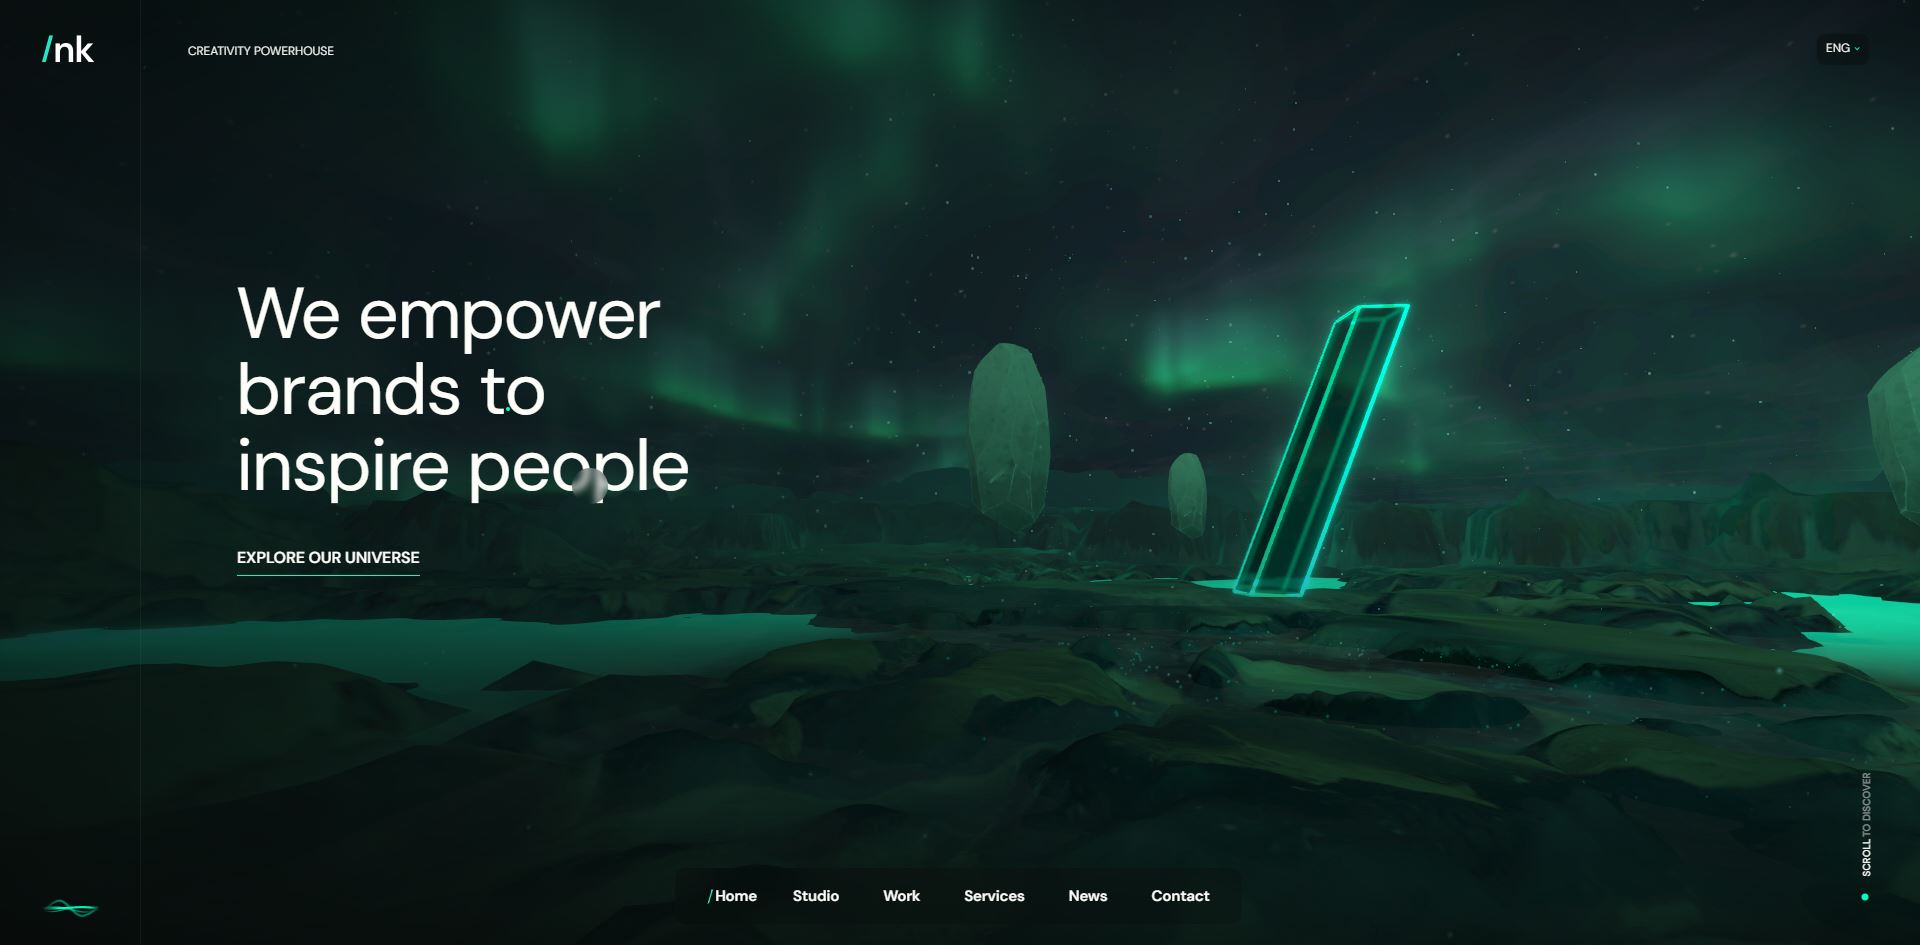
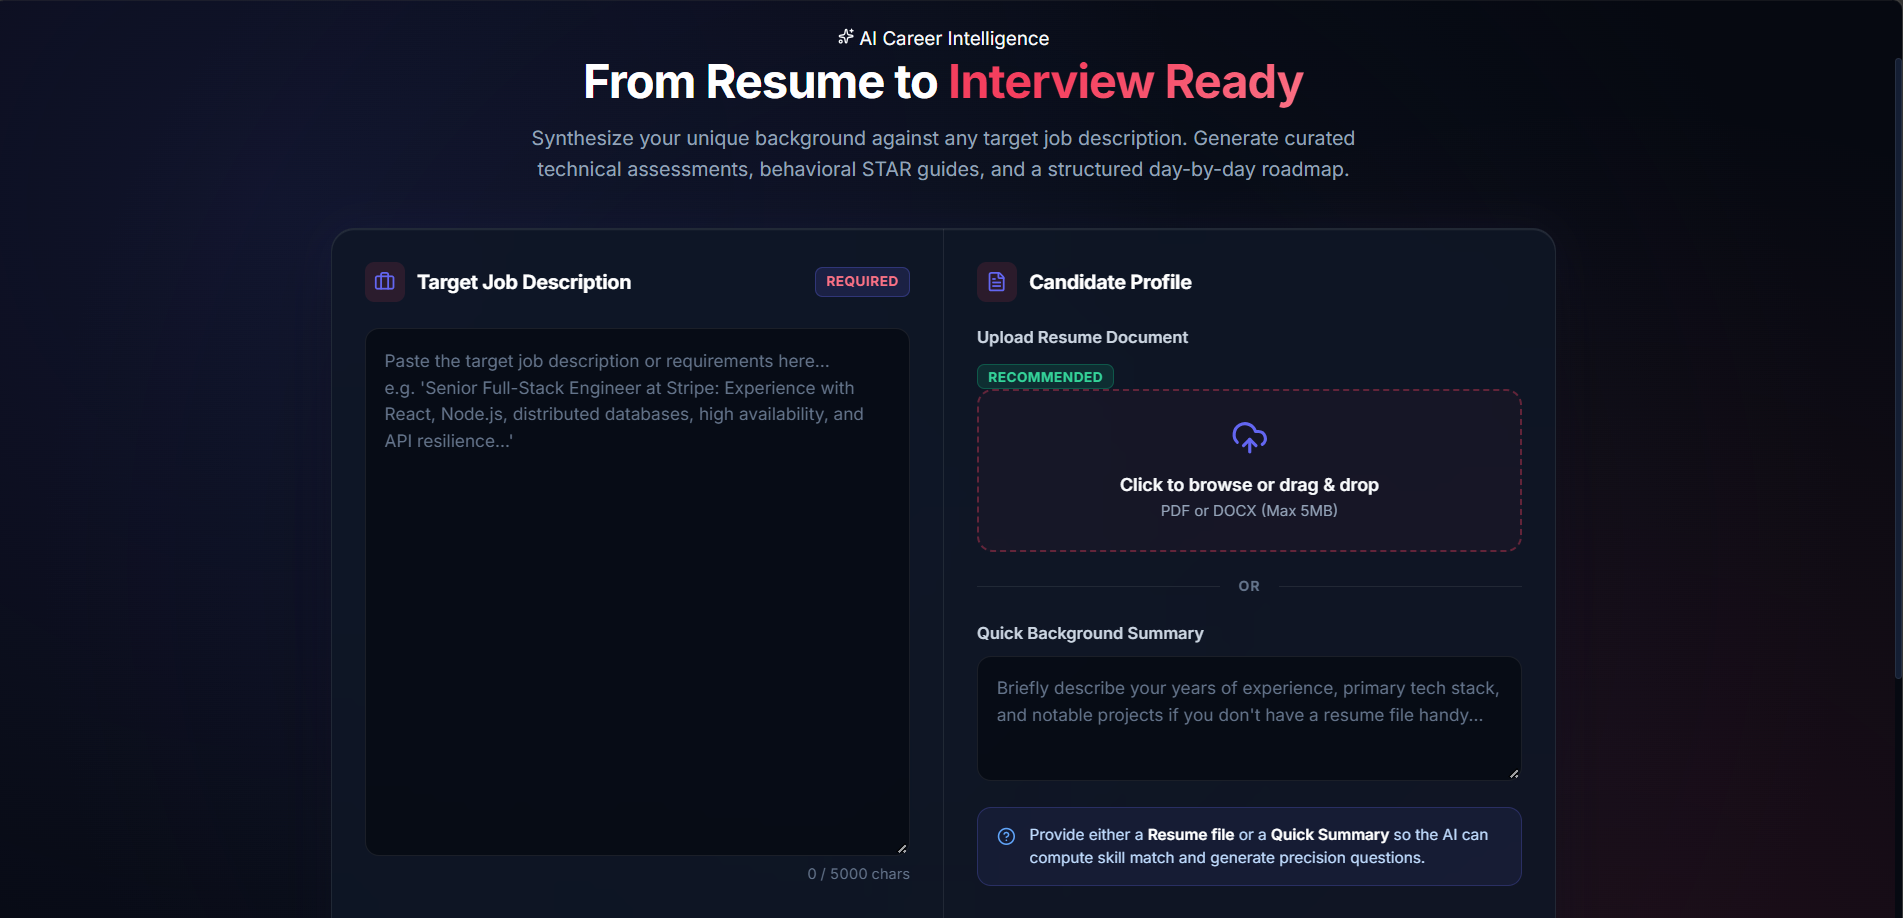
updated project

diff --git a/portfolio/src/sections/Project.jsx b/portfolio/src/sections/Project.jsx
@@ -28,7 +28,7 @@ export default function Project() {
   const sceneRef = useRef(null);
   const projects = useMemo(() => [{
     title: "AI Interview and Resume Builder",
-    link: "",
+    link: "https://resume-maker-khaki-nine.vercel.app/",
     bgColor: "",
     image: isMobile ? photo1 : img1
   }, {
